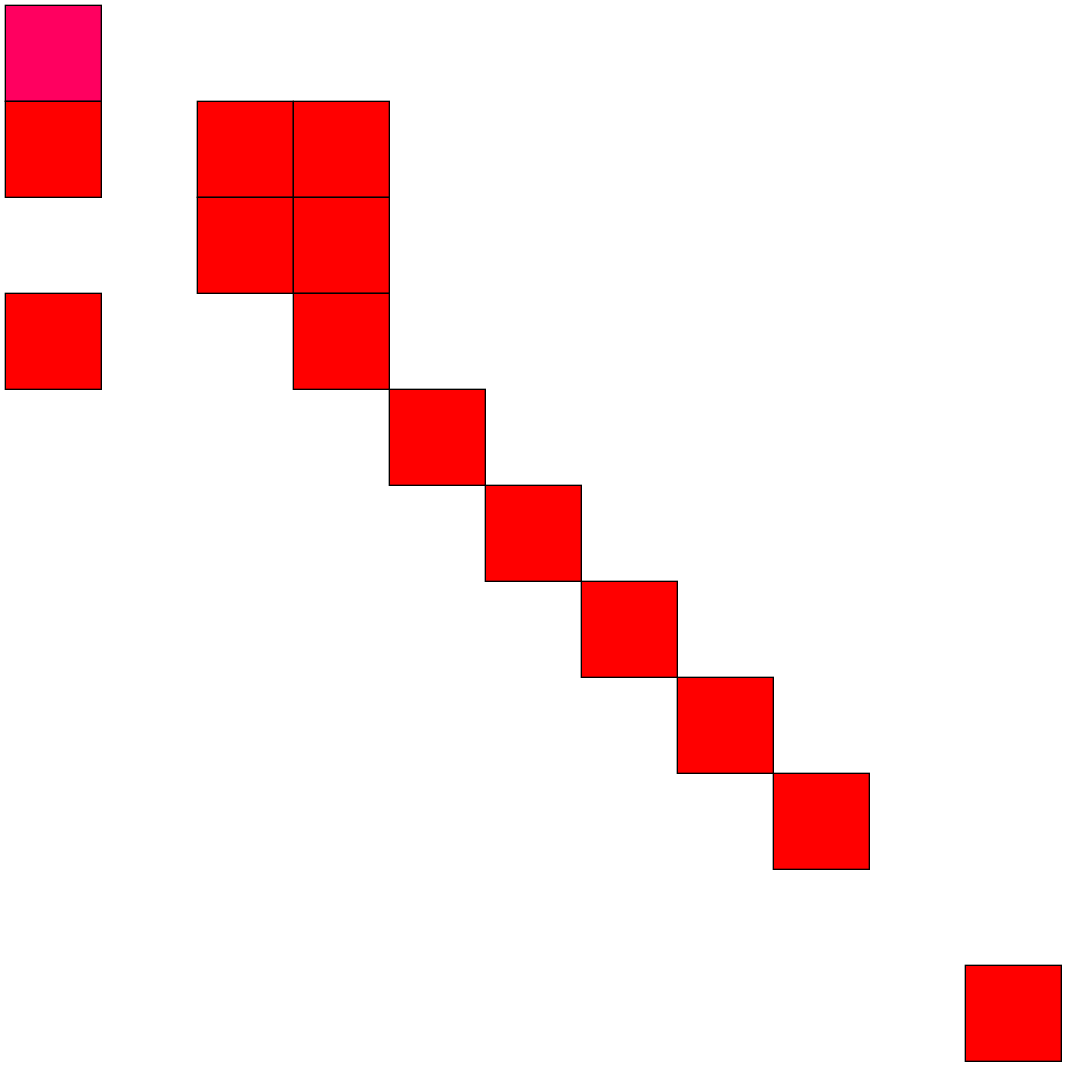
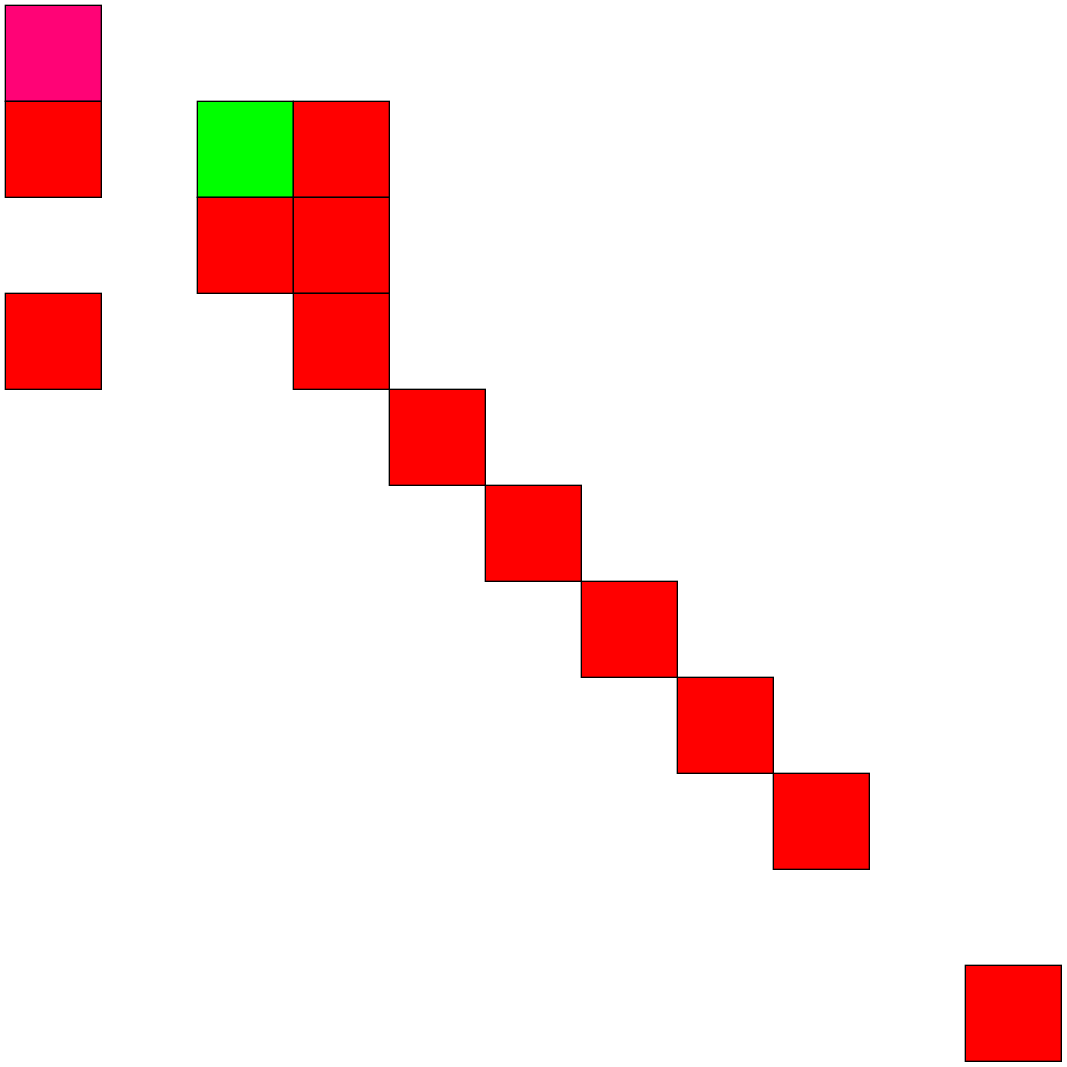
método teórico inserción de una matriz en otra realizada con éxito

Changed region(s): [[0.1856, 0.0928, 0.2784, 0.1856]]

diff --git a/Fase 2/fase2_EDD/src/estructuras/matriz_dispersa/Matriz.java b/Fase 2/fase2_EDD/src/estructuras/matriz_dispersa/Matriz.java
@@ -45,12 +45,12 @@ public class Matriz<E> {
         dot.append("digraph Sparce_Matrix {   \n");
         dot.append("node [shape=box]\n\n");
         dot.append("/* ............ ............DECLARACIÓN NODOS POSICIÓN............................ */\n\n");
-        
+
         /**
          * Parte declaración de la matriz dispersa sin conexiones.
          */
         String cuerpoTabla = crearCuerpoTabla();
-        
+
         dot.append(cuerpoTabla);
         dot.append("}");
 
@@ -85,14 +85,14 @@ public class Matriz<E> {
         /*
             Recordar que para el gráfico de esta matriz dispersa que no posee direcciones me es útil
             utilizar neato que es otra herramienta parecida a dot en Graphviz.
-        */
+         */
         NodoMatriz_Encabezado eFila = eFilas.primero;
         while (eFila != null) {
             NodoMatriz_Posicion actual = eFila.accesoNodo;
             while (actual != null) {
-                 cadena += "N"+actual.fila+""+actual.columna+" [label = \"\",width = 1, height = 1,"
-                         + " style = filled, fillcolor = \""+actual.colorNodo+"\", "
-                         + "pos = \""+actual.fila+",-"+actual.columna+"!\" ]; \n";
+                cadena += "N" + actual.fila + "" + actual.columna + " [label = \"\",width = 1, height = 1,"
+                        + " style = filled, fillcolor = \"" + actual.colorNodo + "\", "
+                        + "pos = \"" + actual.fila + ",-" + actual.columna + "!\" ]; \n";
                 actual = actual.derecha;
             }
             eFila = eFila.siguiente;
@@ -134,19 +134,37 @@ public class Matriz<E> {
                 eFila.accesoNodo = nuevo;
             } else {
                 NodoMatriz_Posicion actual = eFila.accesoNodo;
-                while (actual.derecha != null) {
-                    if (nuevo.columna < actual.derecha.columna) {
-                        nuevo.derecha = actual.derecha;
-                        actual.derecha.izquierda = nuevo;
-                        nuevo.izquierda = actual;
-                        actual.derecha = nuevo;
-                        break;
+                boolean superPosicion = false; // variable bandera para validar si hubo superposición de un nodo ya existente.
+                if (nuevo.columna == actual.columna) { // si la superposición se da en un nodo acceso.
+                    actual.valor = nuevo.valor;
+                    actual.colorNodo = nuevo.colorNodo;
+                    superPosicion = true;
+                } else {
+                    while (actual.derecha != null) {
+                        if (nuevo.columna == actual.columna) {  // si la superposición se da en un nodo cualquiera.
+                            actual.valor = nuevo.valor;
+                            actual.colorNodo = nuevo.colorNodo;
+                            superPosicion = true;
+                            break;
+                        }
+                        if (nuevo.columna < actual.derecha.columna) {
+                            nuevo.derecha = actual.derecha;
+                            actual.derecha.izquierda = nuevo;
+                            nuevo.izquierda = actual;
+                            actual.derecha = nuevo;
+                            break;
+                        }
+                        actual = actual.derecha;
                     }
-                    actual = actual.derecha;
-                }
-                if (actual.derecha == null) {
-                    actual.derecha = nuevo;
-                    nuevo.izquierda = actual;
+                    if (nuevo.columna == actual.columna) {  // si la superposición se da en un nodo cualquiera.
+                            actual.valor = nuevo.valor;
+                            actual.colorNodo = nuevo.colorNodo;
+                            superPosicion = true;
+                        }
+                    if (actual.derecha == null && superPosicion == false) {
+                        actual.derecha = nuevo;
+                        nuevo.izquierda = actual;
+                    }
                 }
             }
         }
@@ -171,19 +189,37 @@ public class Matriz<E> {
                 eColumna.accesoNodo = nuevo;
             } else {
                 NodoMatriz_Posicion actual = eColumna.accesoNodo;
-                while (actual.abajo != null) {
-                    if (nuevo.fila < actual.abajo.fila) {
-                        nuevo.abajo = actual.abajo;
-                        actual.abajo.arriba = nuevo;
-                        nuevo.arriba = actual;
-                        actual.abajo = nuevo;
-                        break;
+                boolean superPosicion = false; // variable bandera para validar si hubo superposición de un nodo ya existente.
+                if (nuevo.fila == actual.fila) { // si la superposición se da en un nodo acceso.
+                    actual.valor = nuevo.valor;
+                    actual.colorNodo = nuevo.colorNodo;
+                    superPosicion = true;
+                } else {
+                    while (actual.abajo != null) {
+                        if (nuevo.fila == actual.fila) { // si la superposición se da en un nodo cualquiera
+                            actual.valor = nuevo.valor;
+                            actual.colorNodo = nuevo.colorNodo;
+                            superPosicion = true;
+                            break;
+                        }
+                        if (nuevo.fila < actual.abajo.fila) {
+                            nuevo.abajo = actual.abajo;
+                            actual.abajo.arriba = nuevo;
+                            nuevo.arriba = actual;
+                            actual.abajo = nuevo;
+                            break;
+                        }
+                        actual = actual.abajo;
                     }
-                    actual = actual.abajo;
-                }
-                if (actual.abajo == null) {
-                    actual.abajo = nuevo;
-                    nuevo.arriba = actual;
+                    if (nuevo.fila == actual.fila) { // si la superposición se da en un nodo cualquiera
+                            actual.valor = nuevo.valor;
+                            actual.colorNodo = nuevo.colorNodo;
+                            superPosicion = true;
+                        }
+                    if (actual.abajo == null && superPosicion == false) {
+                        actual.abajo = nuevo;
+                        nuevo.arriba = actual;
+                    }
                 }
             }
         }
@@ -326,7 +362,7 @@ public class Matriz<E> {
         NodoMatriz_Encabezado actualColumna = this.eColumnas.primero;
         int i = 0;
         while (actualColumna != null) {
-            cadena += "C" + actualColumna.id + " [label = \"Column " + actualColumna.id + "\"    pos = \"5.3,3.5!\" width = 1.5 group = " + (actualColumna.id+1) + " ];\n";
+            cadena += "C" + actualColumna.id + " [label = \"Column " + actualColumna.id + "\"    pos = \"5.3,3.5!\" width = 1.5 group = " + (actualColumna.id + 1) + " ];\n";
             i++;
             actualColumna = actualColumna.siguiente;
         }
@@ -391,7 +427,7 @@ public class Matriz<E> {
         while (eFila != null) {
             NodoMatriz_Posicion actual = eFila.accesoNodo;
             while (actual != null) {
-                cadena += "N" + actual.fila + "" + actual.columna + " [label = \"\", style = filled, fillcolor = \"" + actual.colorNodo + "\", width = 1.5, group = " + (actual.columna+1) + " ]; \n";
+                cadena += "N" + actual.fila + "" + actual.columna + " [label = \"\", style = filled, fillcolor = \"" + actual.colorNodo + "\", width = 1.5, group = " + (actual.columna + 1) + " ]; \n";
 
                 actual = actual.derecha;
             }

diff --git a/Fase 2/fase2_EDD/src/app/Main.java b/Fase 2/fase2_EDD/src/app/Main.java
@@ -9,10 +9,11 @@ import estructuras.matriz_dispersa.Matriz;
 public class Main {
     public static void main(String[] args) {
         Matriz<Integer> matriz = new Matriz<>();
-        matriz.insertar(0, 0, 4, "#FF0060");
+        matriz.insertar(0, 0, 4, "#FF0376");
         matriz.insertar(0, 3, 22, "#FF0000");
         matriz.insertar(0, 1, 2, "#FF0000");
         matriz.insertar(2, 1, 2, "#FF0000");
+        matriz.insertar(2, 1, 2, "#00FF00");
         matriz.insertar(3, 1, 0, "#FF0000");
         matriz.insertar(2, 2, 2, "#FF0000");
         matriz.insertar(3, 2, 278, "#FF0000");
